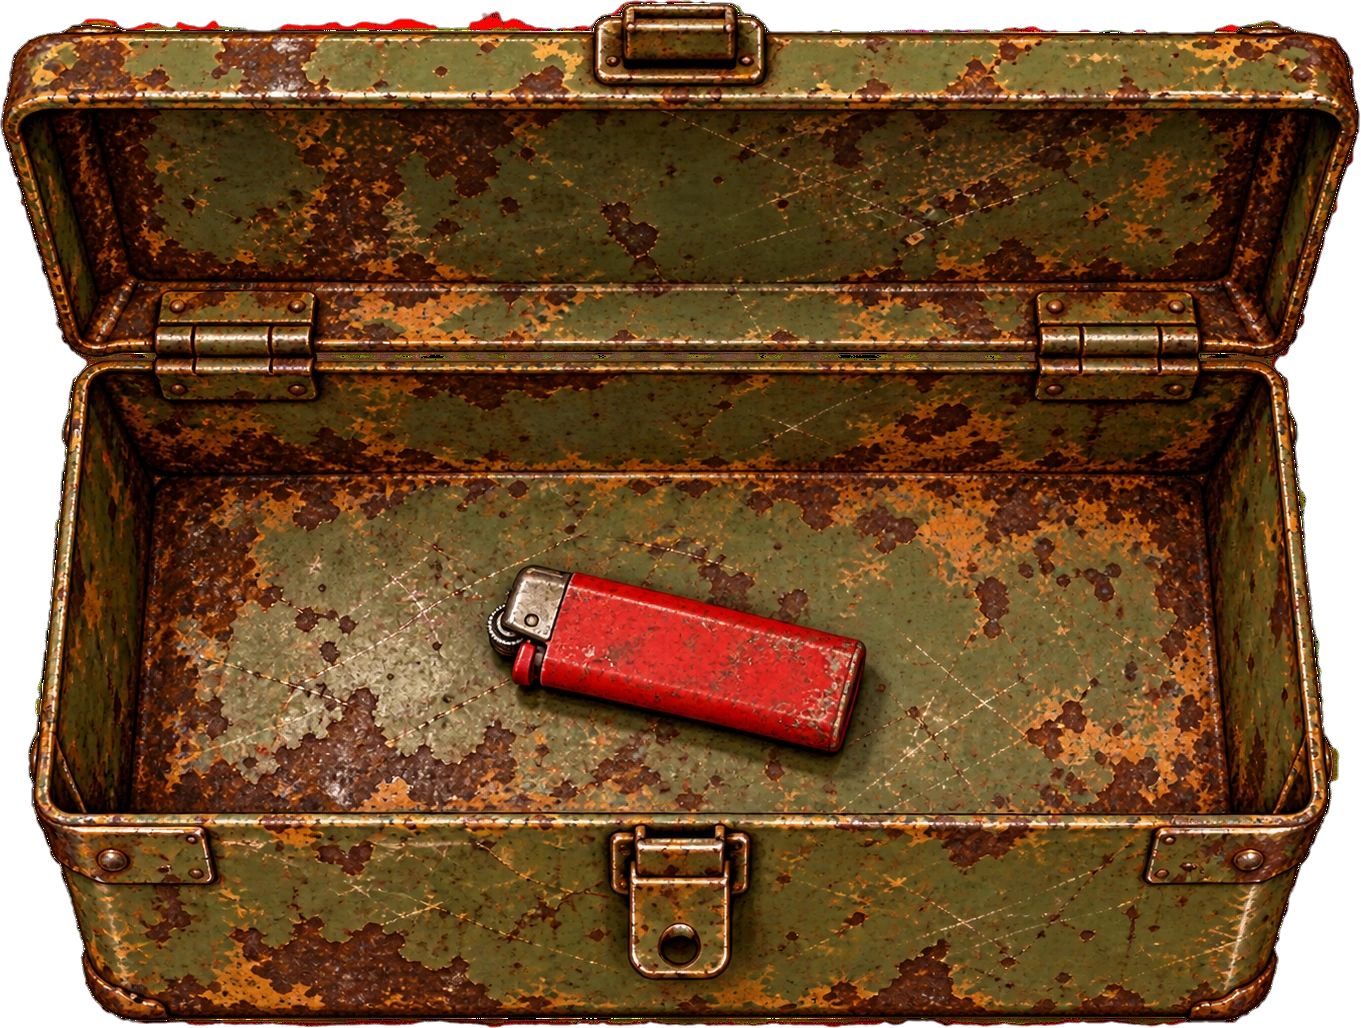
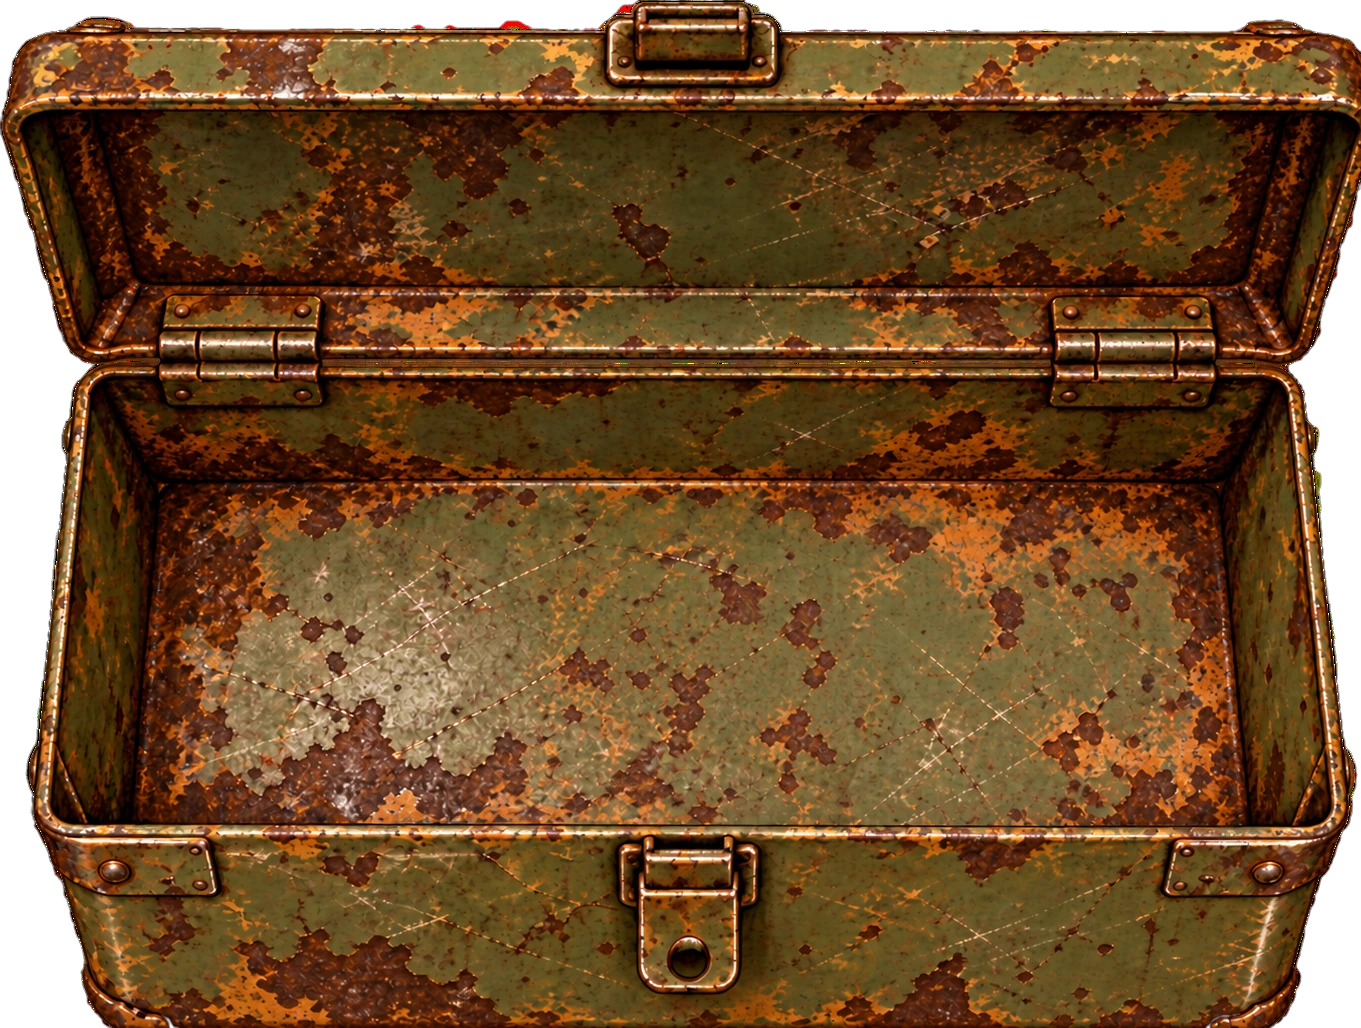
Feuerzeug verschwindet beim Aufnehmen

diff --git a/quest-ostern.html b/quest-ostern.html
@@ -406,8 +406,11 @@
     { id: 'gn_kiste', ansicht: 'gruen_nah', x: 230, y: 230, w: 470, h: 225, typ: 'ausschnitt', zustand: 'kiste_auf', label: 'Blechkiste',
       patch: 'bilder/gruen-kiste.webp', patchX: 218, patchY: 78, patchW: 494, patchH: 384, nah: 'kiste_nah' },
     // In der Kiste: Feuerzeug. Es bleibt im Bild liegen, dafür fehlt noch ein Bild der leeren Kiste.
-    { id: 'ki_feuerzeug', ansicht: 'kiste_nah', x: 440, y: 495, w: 400, h: 225, typ: 'nehmen', zustand: 'feuerzeug_weg',
-      gibt: 'feuerzeug', ohneMarke: true, label: 'Feuerzeug' },
+    // Grundbild ist die leere Kiste; das Feuerzeug liegt als Flicken darauf und
+    // verschwindet, sobald man es genommen hat.
+    { id: 'ki_feuerzeug', ansicht: 'kiste_nah', x: 478, y: 558, w: 410, h: 219, typ: 'nehmen', zustand: 'feuerzeug_weg',
+      gibt: 'feuerzeug', label: 'Feuerzeug',
+      patch: 'bilder/kiste-feuerzeug.webp', patchNicht: true, patchX: 483, patchY: 563, patchW: 400, patchH: 209 },
     { id: 'g2_tuer',  ansicht: 'garage2', x: 1045, y: 110, w: 390, h: 720, typ: 'ausschnitt', zustand: 'g2_tuer_offen',  label: 'Tür zum Treppenhaus',
       hellWenn: 'th_licht',
       patch: 'bilder/g2-tuer-dunkel.webp', patchX: 1039, patchY: 104, patchW: 402, patchH: 732,
@@ -865,7 +868,10 @@
       // Freigestellter Flicken mit Alphakanal: wird an seiner eigenen Stelle
       // eingeblendet, nicht aus einem Vollbild ausgeschnitten. Keine Rechteckkante.
       if (t.patch) {
-        const bild = (p, x, y, w, h) => `<g data-offen="${t.zustand}"><image href="${p}" xlink:href="${p}" x="${x}" y="${y}" width="${w}" height="${h}"/></g>`;
+        // patchNicht: der Flicken liegt da, SOLANGE der Zustand nicht gesetzt ist
+        // (ein Gegenstand, der im Bild liegt und nach dem Aufnehmen verschwindet)
+        const bed = t.patchNicht ? `data-nicht="${t.zustand}"` : `data-offen="${t.zustand}"`;
+        const bild = (p, x, y, w, h) => `<g ${bed}><image href="${p}" xlink:href="${p}" x="${x}" y="${y}" width="${w}" height="${h}"/></g>`;
         // hellWenn am Teil schlägt das der Ansicht — die Garagentür zeigt das
         // Treppenhaus dahinter, hängt also an dessen Licht, nicht am eigenen Raum.
         const hw = t.hellWenn || ans.hellWenn;

diff --git a/UEBERGABE-OSTERN.md b/UEBERGABE-OSTERN.md
@@ -108,8 +108,10 @@ Eine Ansicht kann mit `verlassenSetzt` und `verlassenWenn` festhalten, dass der
 Raum verlassen wurde — optional nur dann, wenn eine Bedingung erfüllt ist.
 Nahansichten zählen nicht als Verlassen.
 
-Zusatzfelder für jedes Teil: `patch` (freigestelltes PNG mit Transparenz, dazu
-`patchX/patchY/patchW/patchH`), `bildAus` (aus welchem Bild der Ausschnitt kommt,
+Zusatzfelder für jedes Teil: `patch` (freigestelltes Bild mit Transparenz, dazu
+`patchX/patchY/patchW/patchH`; mit `patchNicht: true` gilt der Flicken, solange
+der Zustand NICHT gesetzt ist — für Gegenstände, die im Bild liegen und beim
+Aufnehmen verschwinden), `bildAus` (aus welchem Bild der Ausschnitt kommt,
 sonst `bildOffen` der Ansicht; bei `nehmen` nur `bildAus`, sonst zeichnet das Spiel
 eine goldene Marke), `sichtbarWenn` und `nichtWenn` (Zustand-Keys, die das Teil
 ein- oder ausblenden), `nah` (ID einer Nahansicht), `treffer: {x,y,w,h}` (eigene
@@ -206,8 +208,8 @@ Vier Ausschnitte, alle mit `nah: ''` — **Nahaufnahmen fehlen noch**:
 - `g2_unten` Grosser Schrank, unten (470,548 380×265). Zweites Antippen öffnet
   `gruen_nah` (1448×1086). Dort die Blechkiste aufklappen (230,230 470×225),
   nochmal antippen führt in `kiste_nah` (1361×1028) — darin das Feuerzeug und Ei e08.
-  **Offen:** ein Bild der leeren Kiste. Das Feuerzeug bleibt im Bild liegen,
-  auch nachdem man es genommen hat.
+  Grundbild ist die **leere** Kiste; das Feuerzeug liegt als Flicken darauf
+  (`patchNicht: true`) und verschwindet beim Aufnehmen.
 - `g2_tuer` Tür zum Treppenhaus (1045,110 390×720) — schaltet den Weg zur Treppe frei.
   Zeigt das Treppenhaus dahinter, hängt also über ein eigenes `hellWenn: 'th_licht'`
   am Licht des Nachbarraums, nicht am eigenen.
